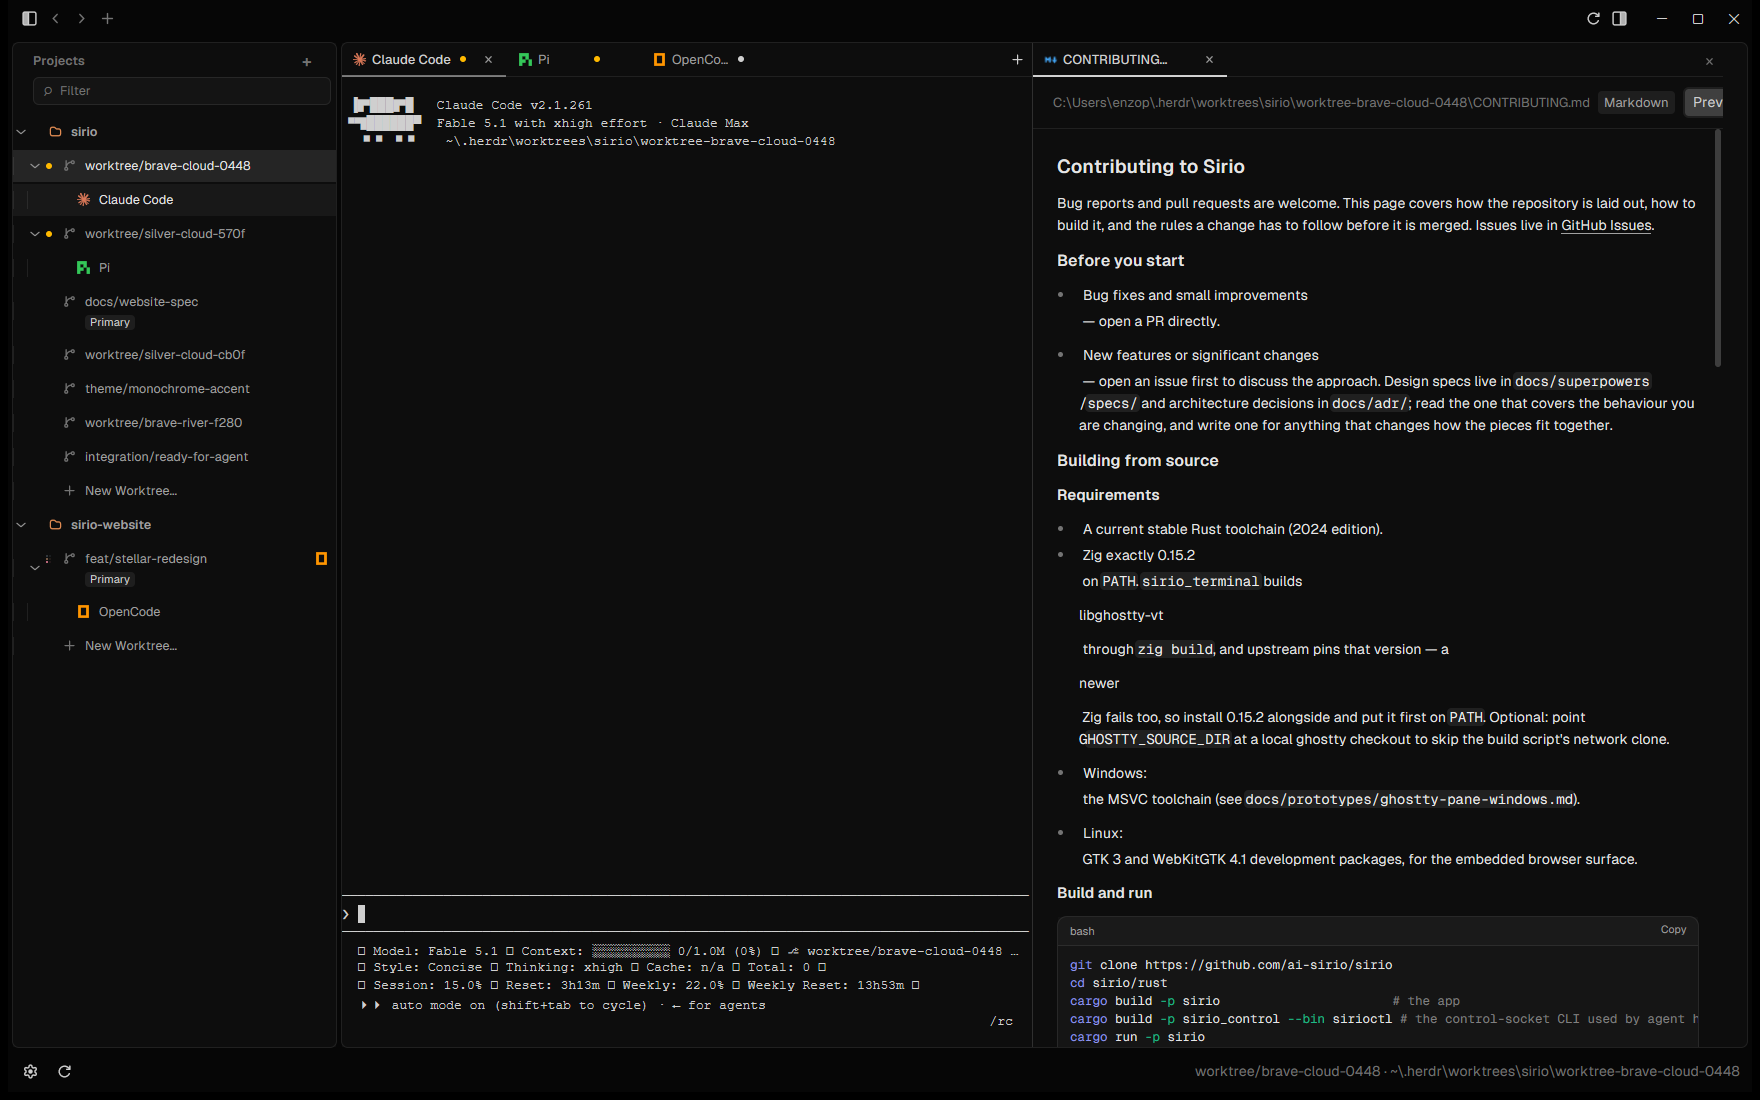
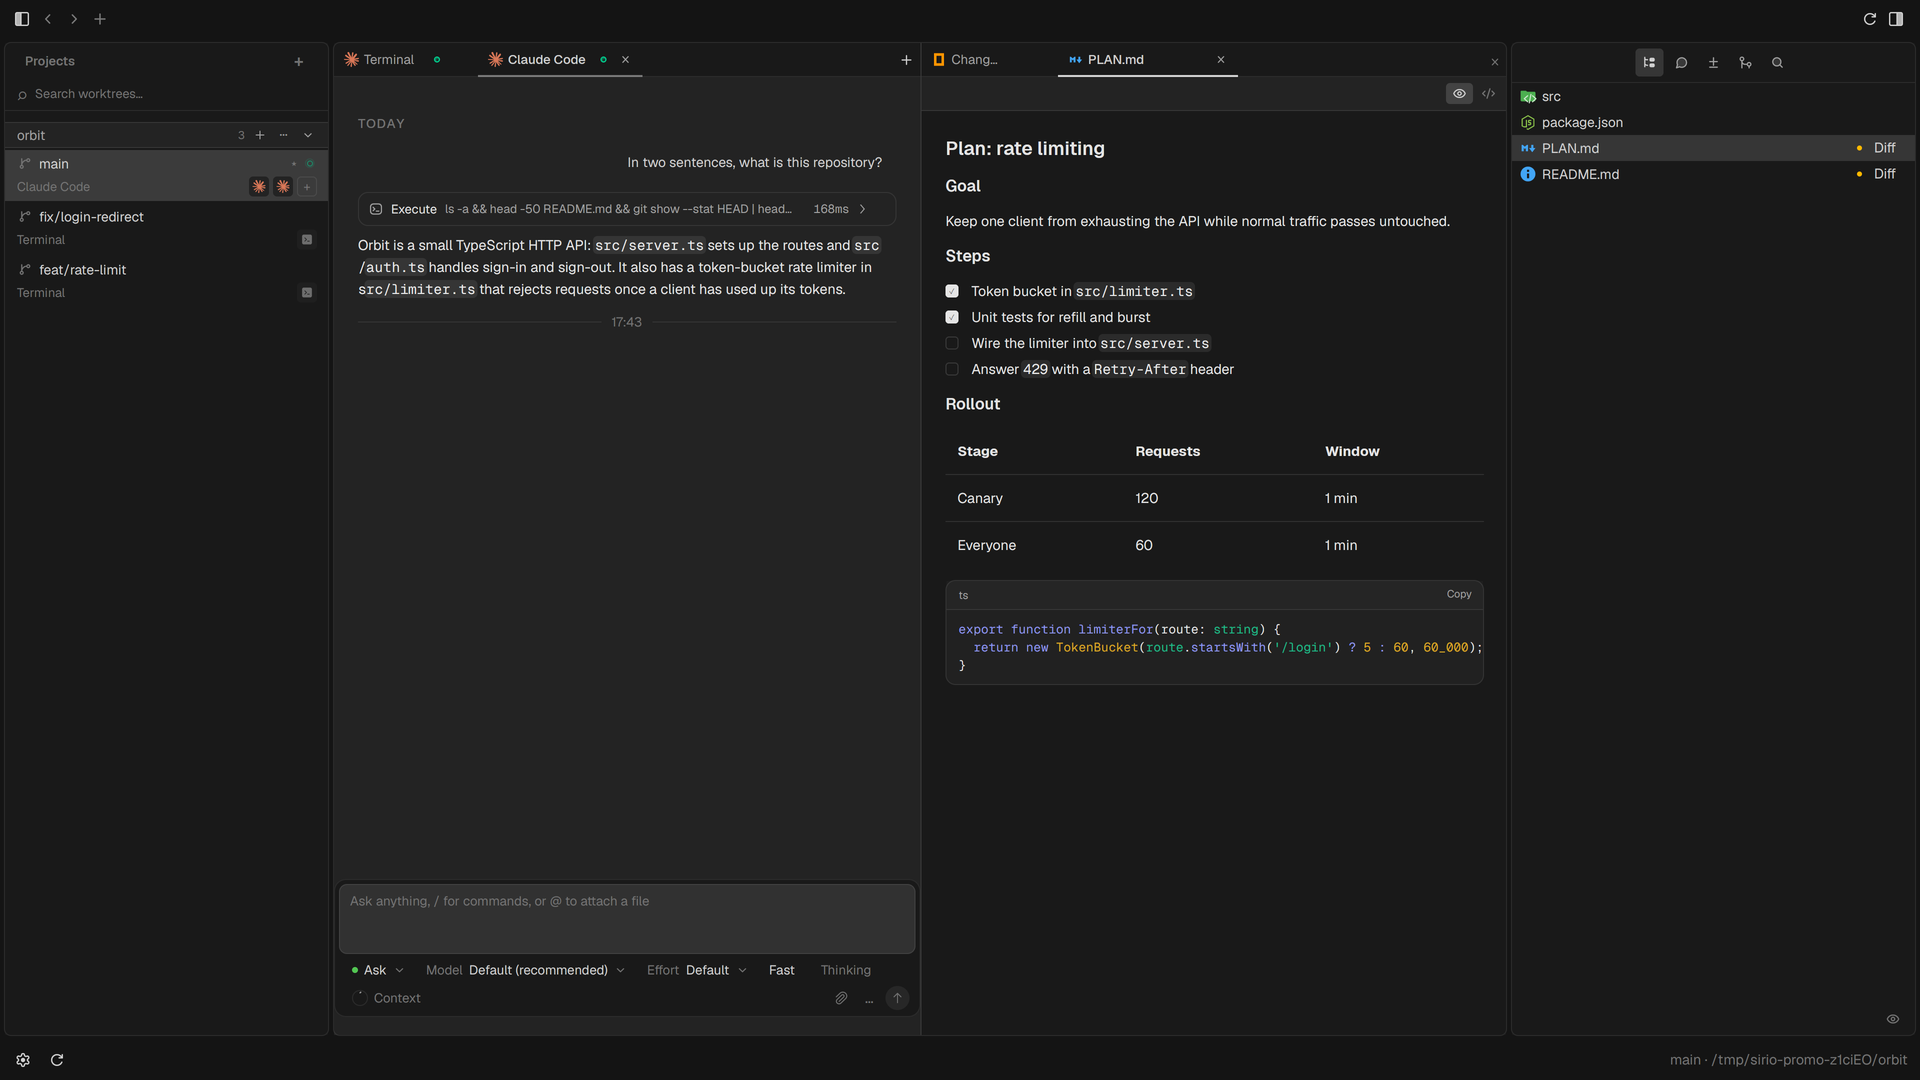
docs: replace the readme screenshots with captures of 0.25.0 (#550)
The five screenshots came from an older Windows build: they showed the
old nested sidebar, broken status-line glyphs and a private home path.
These are captures of 0.25.0 on Linux in a 1920x1080 window, staged in a
throwaway demo repository by the promo pipeline in sirio-website (npm run
capture, then npm run screenshots), with real Claude Code, Pi and
OpenCode answering. The alt text now describes what each one shows.

diff --git a/README.md b/README.md
@@ -25,7 +25,7 @@
 </h3>
 
 <p align="center">
-  <img src="assets/readme/hero.png" alt="Sirio with two projects in the sidebar, Claude Code and Pi running in separate worktrees, and a rendered Markdown file open beside the agent" width="960" />
+  <img src="assets/readme/hero.png" alt="Sirio with a project's three worktrees in the sidebar, a native Claude Code chat, PLAN.md rendered beside it and the Files panel on the right" width="960" />
 </p>
 
 ## Features
@@ -42,7 +42,7 @@ Each project lists its git worktrees, one row per branch, sorted by who needs yo
 
 </td>
 <td width="50%">
-  <a href="https://sirioai.app/docs/agents/activity-states"><img src="assets/readme/feature-sidebar.png" alt="Sidebar with two projects, their worktrees, and Claude Code, Pi and OpenCode rows with status dots" width="100%" /></a>
+  <a href="https://sirioai.app/docs/agents/activity-states"><img src="assets/readme/feature-sidebar.png" alt="The sidebar with one project and its three worktrees, main waiting for input" width="100%" /></a>
 </td>
 </tr>
 <tr>
@@ -56,7 +56,7 @@ Terminal panes on [libghostty-vt](https://github.com/ghostty-org/ghostty), the V
 
 </td>
 <td width="50%">
-  <a href="https://sirioai.app/docs/workspace/tabs"><img src="assets/readme/feature-terminal.png" alt="Terminal panes split side by side inside one worktree" width="100%" /></a>
+  <a href="https://sirioai.app/docs/workspace/tabs"><img src="assets/readme/feature-terminal.png" alt="Claude Code, Pi and OpenCode in terminal panes inside one worktree, split right and then down" width="100%" /></a>
 </td>
 </tr>
 <tr>
@@ -70,7 +70,7 @@ Click a `.md` link in the terminal, drag a file in, or press `Ctrl+O`: it opens 
 
 </td>
 <td width="50%">
-  <a href="https://sirioai.app/docs/workspace/surfaces"><img src="assets/readme/feature-markdown.png" alt="A Markdown file rendered in a tab, with headings, lists and a code block" width="100%" /></a>
+  <a href="https://sirioai.app/docs/workspace/surfaces"><img src="assets/readme/feature-markdown.png" alt="PLAN.md rendered in a tab, with headings, a checklist, a table and a code block" width="100%" /></a>
 </td>
 </tr>
 <tr>
@@ -84,7 +84,7 @@ A git-status-aware Changes surface for every worktree: stage, unstage, discard, 
 
 </td>
 <td width="50%">
-  <a href="https://sirioai.app/docs/workspace/surfaces"><img src="assets/readme/feature-changes.png" alt="The Changes surface listing modified files with stage and discard actions" width="100%" /></a>
+  <a href="https://sirioai.app/docs/workspace/surfaces"><img src="assets/readme/feature-changes.png" alt="The Changes surface with README.md open to its diff, and Discard and Stage beside it" width="100%" /></a>
 </td>
 </tr>
 <tr>
